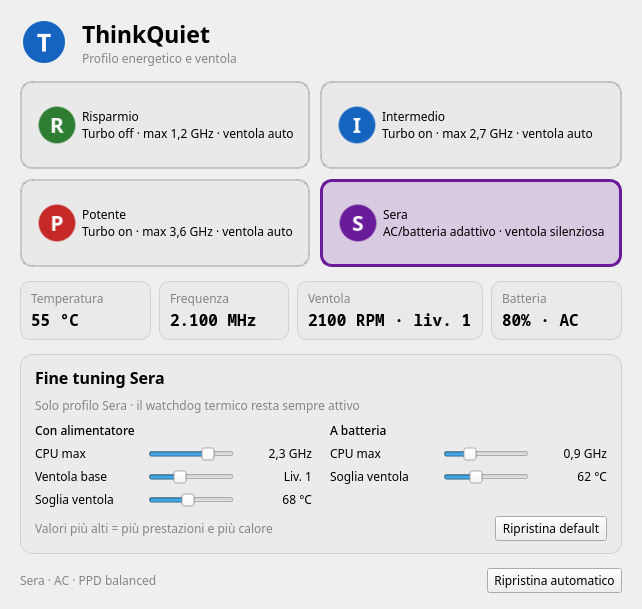
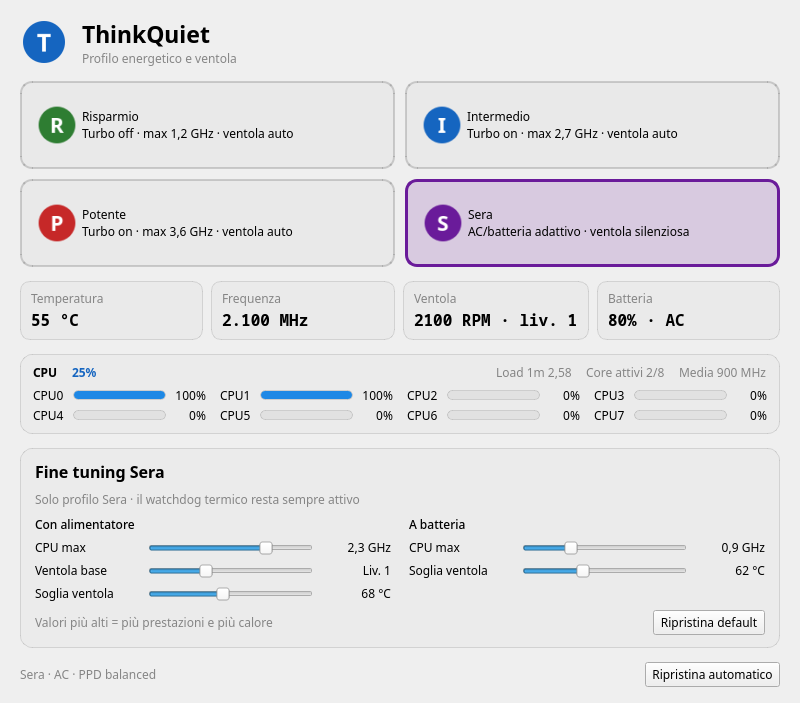
GUI: add live per-core CPU statistics panel

diff --git a/README.md b/README.md
@@ -42,6 +42,8 @@ report if you test one.
     (default 68 °C), then a quiet watchdog ramp.
 - **Fine tuning**: five sliders for the Sera profile (CPU caps, fan base,
   temperature thresholds), applied live within a few seconds.
+- **Live CPU panel**: per-core usage, overall load, active cores and average
+  frequency.
 - **Thermal watchdog**: the fan is always ramped up automatically if the CPU
   gets hot, even when the GUI is closed.
 - **Crash-safe**: `ExecStopPost` puts the fan back in `auto` if the daemon is

diff --git a/README.it.md b/README.it.md
@@ -41,6 +41,8 @@ segnalazione di compatibilità se ne provi uno.
     (default 68 °C), poi rampa silenziosa del watchdog.
 - **Fine tuning**: cinque slider per Sera (limiti CPU, ventola base, soglie
   termiche), applicati entro pochi secondi.
+- **Pannello CPU live**: utilizzo per core, carico, core attivi e frequenza
+  media.
 - **Watchdog termico**: la ventola sale automaticamente se la CPU si scalda,
   anche a GUI chiusa.
 - **Sicuro in caso di crash**: `ExecStopPost` rimette la ventola in `auto` se il

diff --git a/CHANGELOG.md b/CHANGELOG.md
@@ -10,6 +10,8 @@ Initial public release.
 - Thermal watchdog with hysteresis and EC auto fallback.
 - `ExecStopPost` safety: the fan returns to `auto` on crash/stop.
 - Fine-tuning sliders for Sera (CPU caps, fan base, temperature thresholds).
+- Live CPU panel: per-core usage, load average, active cores and average
+  frequency.
 - Persistent last profile and tuning.
 - PySide6 tray application with single-instance IPC.
 - CLI (`status`, `apply`, `stop`, `doctor`, `fan-auto`).
